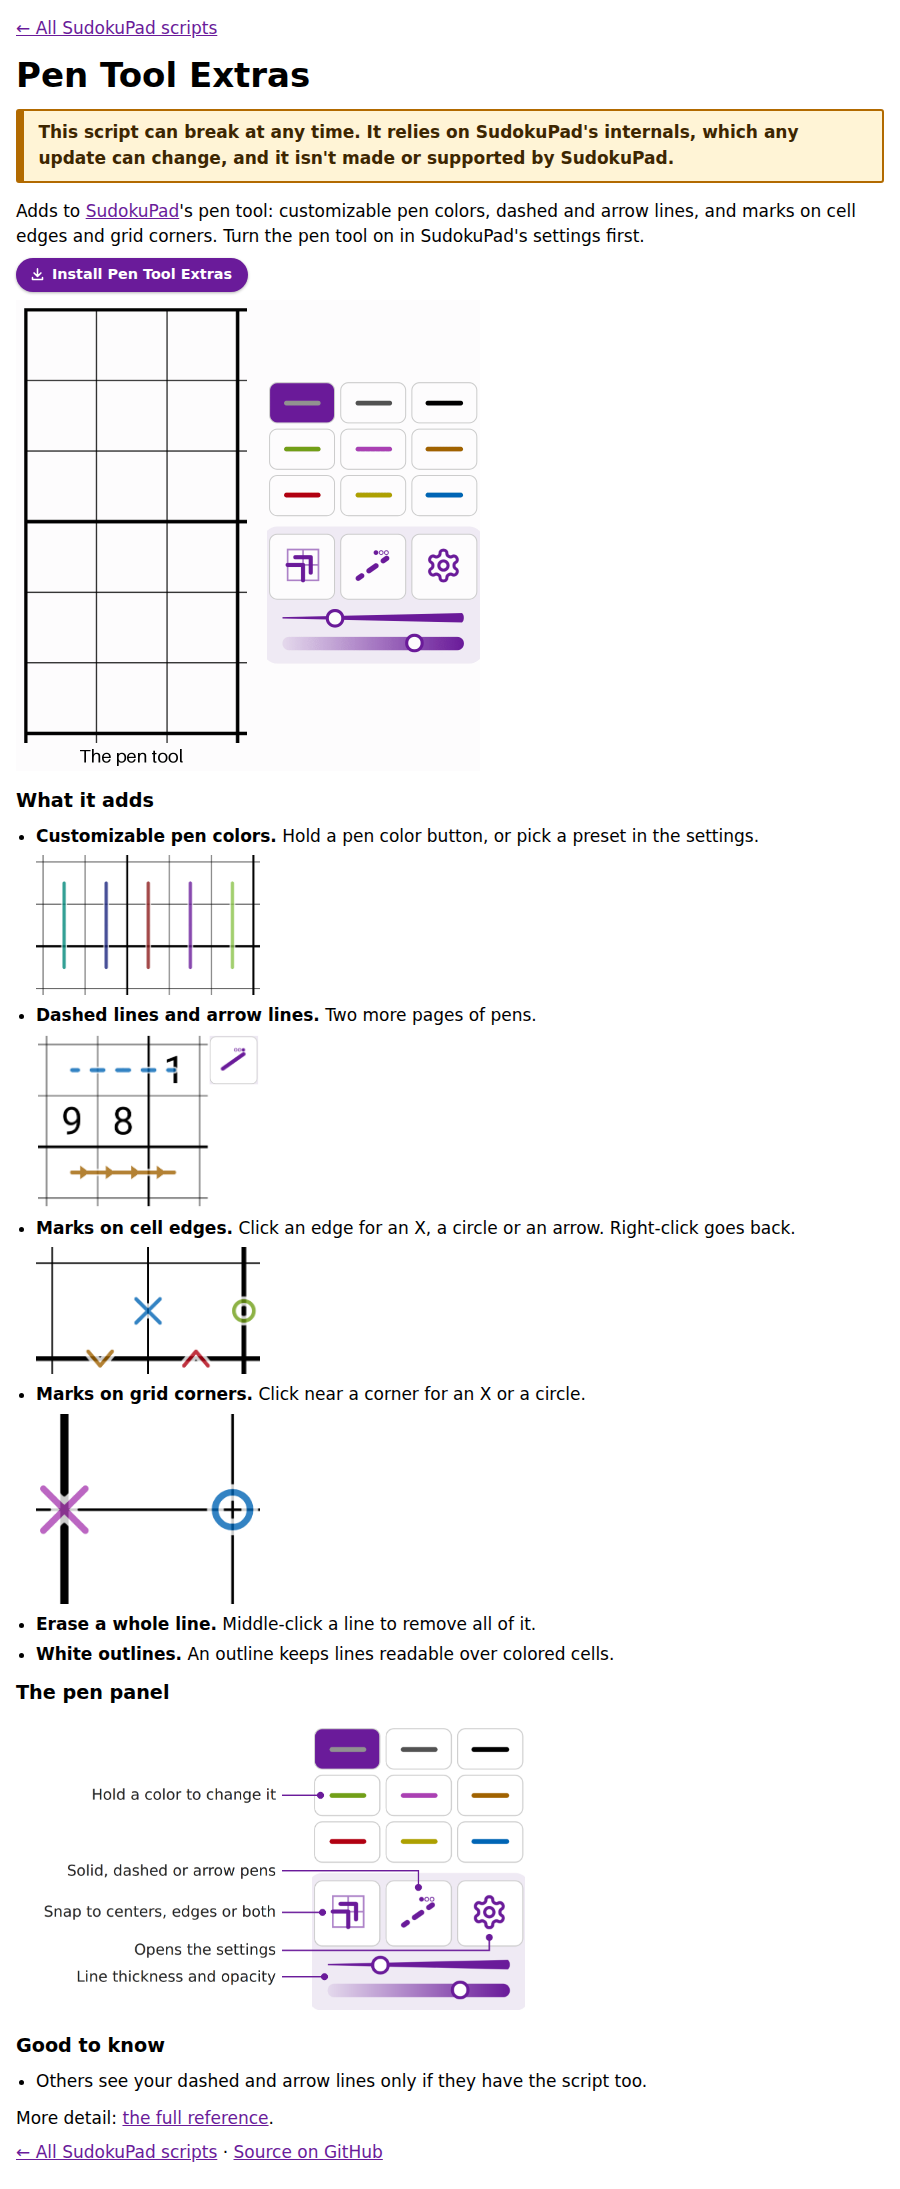
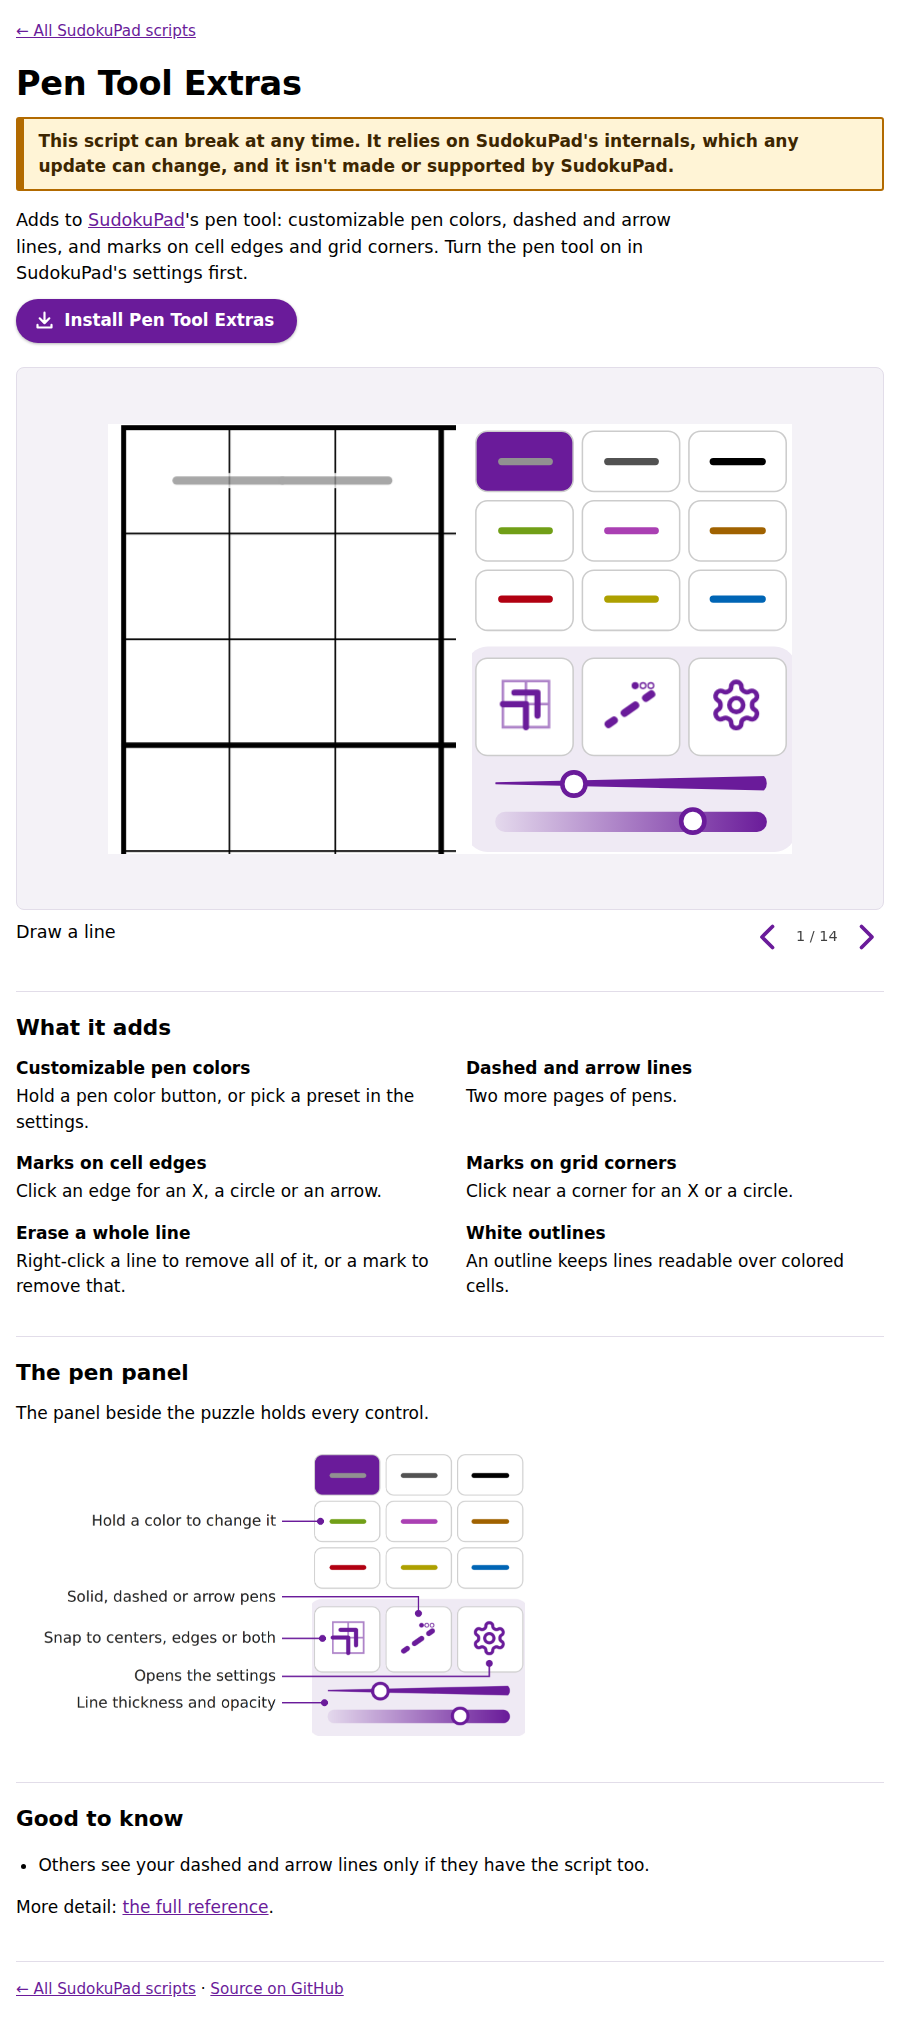
Pen Tool Extras slides: correct alt texts, retake the site pictures (#363)
Closes #363

Changed region(s): [[0.0, 0.0, 0.9956, 0.9916], [0.6533, 0.8987, 0.7156, 0.9606]]

diff --git a/site/index.html b/site/index.html
@@ -38,9 +38,9 @@
   <section class="row">
     <div class="slideshow">
       <div class="slide-frame">
-        <img class="slide current" src="https://raw.githubusercontent.com/caneff/sudokupad-scripts/main/docs/research/pen-tool-extras-slide-1-line.png?v=763ec7e" alt="A teal line drawn across the top row of the board, with the pen panel beside it" width="684" height="430">
+        <img class="slide current" src="https://raw.githubusercontent.com/caneff/sudokupad-scripts/main/docs/research/pen-tool-extras-slide-1-line.png?v=763ec7e" alt="A gray line drawn across the top row of the board, with the pen panel beside it" width="684" height="430">
         <img class="slide" src="https://raw.githubusercontent.com/caneff/sudokupad-scripts/main/docs/research/pen-tool-extras-slide-2-hold.png?v=43576be" alt="A red ring on the first pen color button, which a hold has turned into an edit mode: every pen button shows a color picker" width="684" height="430">
-        <img class="slide" src="https://raw.githubusercontent.com/caneff/sudokupad-scripts/main/docs/research/pen-tool-extras-slide-3-color.png?v=b26e475" alt="The first pen button and the line recolored to a new gray, the picker still on every button" width="684" height="430">
+        <img class="slide" src="https://raw.githubusercontent.com/caneff/sudokupad-scripts/main/docs/research/pen-tool-extras-slide-3-color.png?v=b26e475" alt="The first pen button and the line recolored to teal, with a color picker still on every pen button" width="684" height="430">
         <img class="slide" src="https://raw.githubusercontent.com/caneff/sudokupad-scripts/main/docs/research/pen-tool-extras-slide-4-solid.png?v=a10df3e" alt="A solid brown line drawn across the board in the first row of pens" width="684" height="430">
         <img class="slide" src="https://raw.githubusercontent.com/caneff/sudokupad-scripts/main/docs/research/pen-tool-extras-slide-5-dashed.png?v=b21c6c1" alt="A dashed brown line drawn across the board, from the second page of pens" width="684" height="430">
         <img class="slide" src="https://raw.githubusercontent.com/caneff/sudokupad-scripts/main/docs/research/pen-tool-extras-slide-6-arrow.png?v=5b06ed6" alt="A brown line with arrowheads along it, from the third page of pens" width="684" height="430">

diff --git a/site/pen-tool-extras.html b/site/pen-tool-extras.html
@@ -15,9 +15,9 @@
 
   <div class="slideshow">
     <div class="slide-frame">
-      <img class="slide current" src="https://raw.githubusercontent.com/caneff/sudokupad-scripts/main/docs/research/pen-tool-extras-slide-1-line.png?v=763ec7e" alt="A teal line drawn across the top row of the board, with the pen panel beside it" width="684" height="430">
+      <img class="slide current" src="https://raw.githubusercontent.com/caneff/sudokupad-scripts/main/docs/research/pen-tool-extras-slide-1-line.png?v=763ec7e" alt="A gray line drawn across the top row of the board, with the pen panel beside it" width="684" height="430">
       <img class="slide" src="https://raw.githubusercontent.com/caneff/sudokupad-scripts/main/docs/research/pen-tool-extras-slide-2-hold.png?v=43576be" alt="A red ring on the first pen color button, which a hold has turned into an edit mode: every pen button shows a color picker" width="684" height="430">
-      <img class="slide" src="https://raw.githubusercontent.com/caneff/sudokupad-scripts/main/docs/research/pen-tool-extras-slide-3-color.png?v=b26e475" alt="The first pen button and the line recolored to a new gray, the picker still on every button" width="684" height="430">
+      <img class="slide" src="https://raw.githubusercontent.com/caneff/sudokupad-scripts/main/docs/research/pen-tool-extras-slide-3-color.png?v=b26e475" alt="The first pen button and the line recolored to teal, with a color picker still on every pen button" width="684" height="430">
       <img class="slide" src="https://raw.githubusercontent.com/caneff/sudokupad-scripts/main/docs/research/pen-tool-extras-slide-4-solid.png?v=a10df3e" alt="A solid brown line drawn across the board in the first row of pens" width="684" height="430">
       <img class="slide" src="https://raw.githubusercontent.com/caneff/sudokupad-scripts/main/docs/research/pen-tool-extras-slide-5-dashed.png?v=b21c6c1" alt="A dashed brown line drawn across the board, from the second page of pens" width="684" height="430">
       <img class="slide" src="https://raw.githubusercontent.com/caneff/sudokupad-scripts/main/docs/research/pen-tool-extras-slide-6-arrow.png?v=5b06ed6" alt="A brown line with arrowheads along it, from the third page of pens" width="684" height="430">
